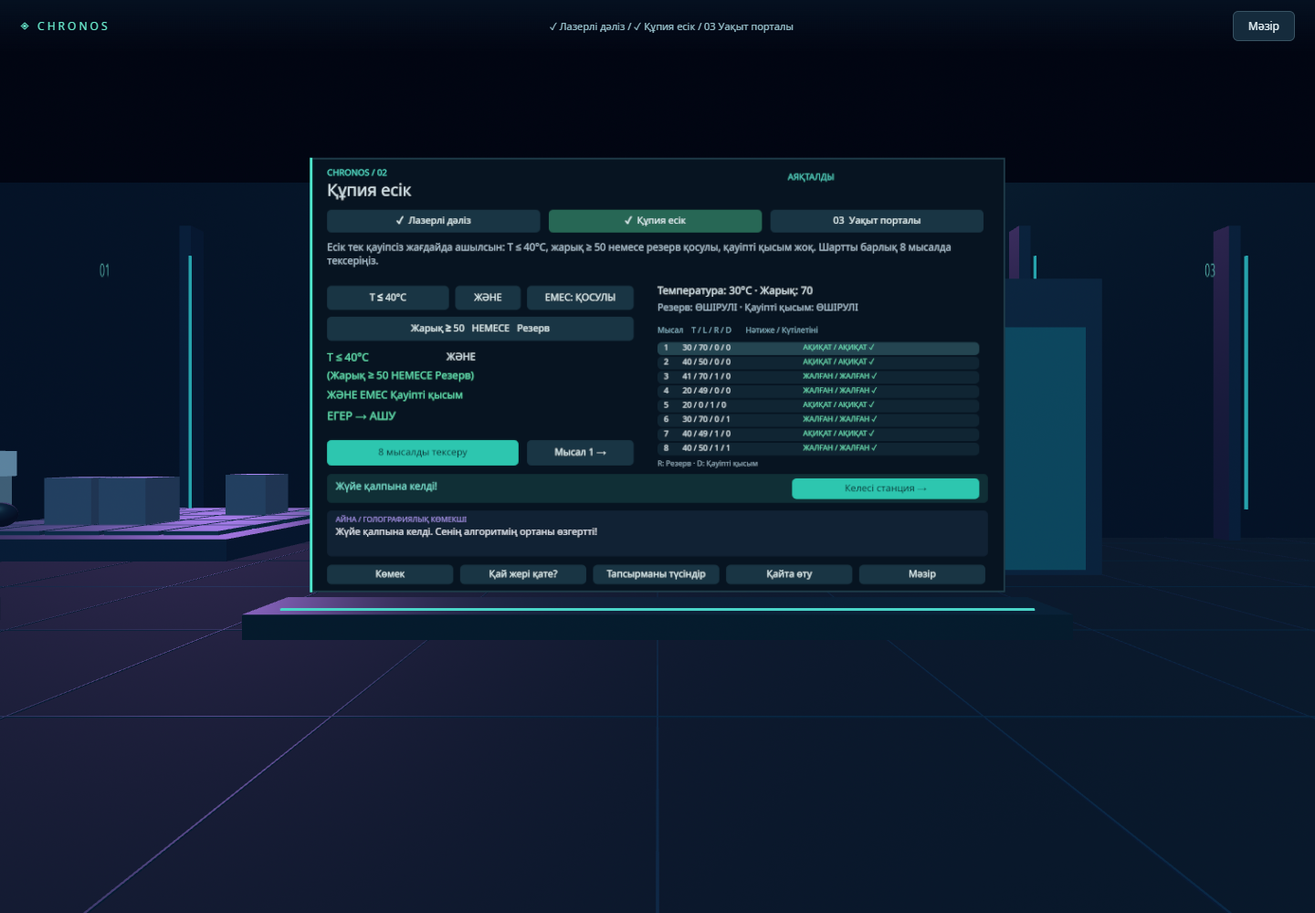
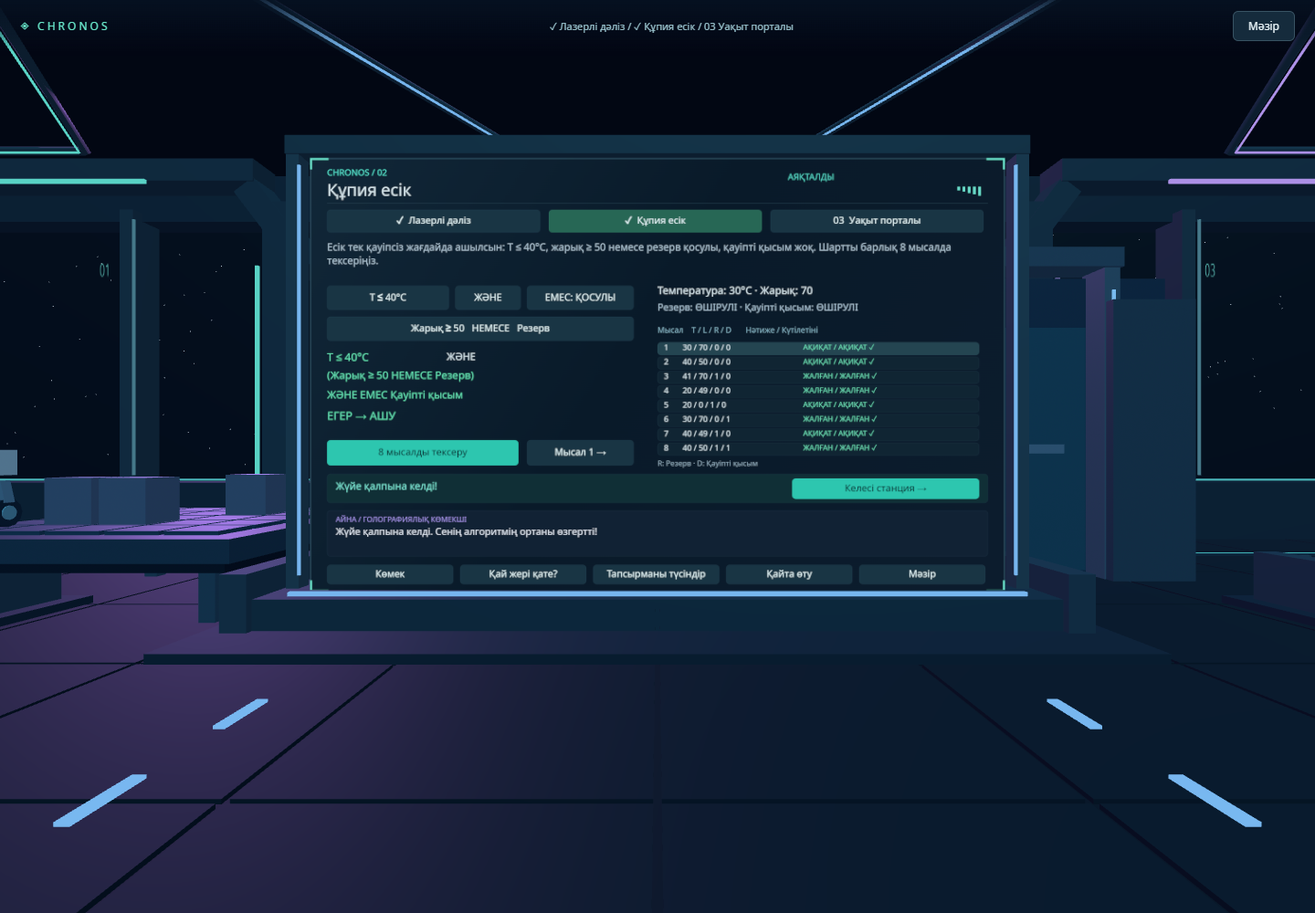
Refine laboratory architecture, exhibits and portal visuals

diff --git a/js/scene.js b/js/scene.js
@@ -1,15 +1,11 @@
+import {buildEnvironment,portalTexture} from './lab-environment.js';
 export function entity(tag,attributes,parent){const el=document.createElement(tag);for(const [key,value] of Object.entries(attributes))el.setAttribute(key,value);parent.append(el);return el;}
 export const stationX=n=>n*10;
 export class Laboratory {
   constructor(scene,dispatch,config){this.scene=scene;this.config=config;this.dispatch=dispatch;this.build();}
   build(){
     const s=this.scene;
-    entity('a-plane',{rotation:'-90 0 0',position:'10 -0.02 -2',width:38,height:22,color:'#0c1a2b',material:'roughness: 0.85; metalness: 0.2'},s);
-    entity('a-box',{position:'10 4 -9',width:38,height:8,depth:.3,color:'#101d32'},s);
-    entity('a-plane',{position:'10 7 -2',rotation:'90 0 0',width:38,height:16,color:'#081323'},s);
-    for(let x=-8;x<=28;x+=2){entity('a-box',{position:`${x} 0.002 -2`,width:.012,height:.008,depth:18,color:'#18354a'},s);}
-    for(let z=-10;z<=8;z+=2){entity('a-box',{position:`10 0.003 ${z}`,width:38,height:.008,depth:.012,color:'#18354a'},s);}
-    for(let x=-7;x<=27;x+=4){entity('a-box',{position:`${x} 3 -8.6`,width:.22,height:6,depth:.35,color:'#1c304b'},s);entity('a-box',{position:`${x+.15} 3 -8.35`,width:.035,height:4.8,depth:.04,color:'#28aab3',material:'shader: flat'},s);}
+    buildEnvironment(s);
     for(let n=0;n<3;n++){
       const x=stationX(n);
       entity('a-cylinder',{position:`${x} .035 4`,radius:1,height:.05,color:'#193a4a',segments:32},s);
@@ -21,36 +17,79 @@ export class Laboratory {
       entity('a-box',{position:`${x} .24 -1.8`,width:6.7,height:.02,depth:.025,color:'#4bd7ca',material:'shader: flat'},s);
     }
     this.laserWorld=entity('a-entity',{position:'4.5 .75 -3.5'},s);
-    entity('a-box',{width:3.2,height:.2,depth:3.2,color:'#1b2d46'},this.laserWorld);
+    entity('a-box',{width:3.35,height:.22,depth:3.35,color:'#243c50'},this.laserWorld);
+    entity('a-box',{position:'0 -.15 0',width:3.1,height:.13,depth:3.1,color:'#0d1b2b'},this.laserWorld);
+    for(const x of [-1.2,1.2])for(const z of [-1.2,1.2])entity('a-box',{position:`${x} -.44 ${z}`,width:.16,height:.65,depth:.16,color:'#304b5e'},this.laserWorld);
+    for(const z of [-1.62,1.62])entity('a-box',{position:`0 .04 ${z}`,width:3.15,height:.035,depth:.025,color:'#60dcca',material:'shader: flat'},this.laserWorld);
     this.beams=[];
     for(let y=0;y<5;y++)for(let x=0;x<5;x++){
       entity('a-box',{position:`${(x-2)*.56} .13 ${(y-2)*.56}`,width:.51,height:.04,depth:.51,color:x===4&&y===0?'#237f6c':'#25435a'},this.laserWorld);
     }
     this.config.laser.obstacles.forEach(([x,y])=>entity('a-box',{position:`${(x-2)*.56} .38 ${(y-2)*.56}`,width:.48,height:.5,depth:.48,color:'#53627c'},this.laserWorld));
-    this.config.laser.lasers.forEach(([x,y])=>this.beams.push(entity('a-cylinder',{position:`${(x-2)*.56} .5 ${(y-2)*.56}`,radius:.035,height:.75,color:'#ff4266',material:'shader: flat'},this.laserWorld)));
+    this.config.laser.lasers.forEach(([x,y])=>{
+      entity('a-cylinder',{position:`${(x-2)*.56} .2 ${(y-2)*.56}`,radius:.11,height:.1,color:'#61384b','segments-radial':12},this.laserWorld);
+      this.beams.push(entity('a-cylinder',{position:`${(x-2)*.56} .58 ${(y-2)*.56}`,radius:.025,height:.72,color:'#ff4266',material:'shader: flat'},this.laserWorld));
+    });
     this.robot=this.makeRobot(this.laserWorld);this.moveRobot({x:0,y:4,dir:0},false);
-    entity('a-box',{position:'14.5 2 -5',width:3,height:4,depth:.4,color:'#20364e'},s);
-    this.door=entity('a-box',{position:'14.5 1.7 -4.7',width:2.3,height:3.2,depth:.2,color:'#246c79'},s);
-    entity('a-box',{position:'0 0 0',width:.07,height:2.8,depth:.23,color:'#59e9d4',material:'shader: flat'},this.door);
+    entity('a-box',{position:'14.5 2 -5',width:4.7,height:4,depth:.4,color:'#20364e'},s);
+    for(const x of [13.12,15.88]){
+      entity('a-box',{position:`${x} 2 -4.65`,width:.2,height:4.25,depth:.45,color:'#496173'},s);
+      entity('a-box',{position:`${x} 2.1 -4.4`,width:.035,height:3.3,depth:.025,color:'#7bbff3',material:'shader: flat'},s);
+    }
+    entity('a-box',{position:'14.5 4.17 -4.65',width:3,height:.25,depth:.55,color:'#3a5266'},s);
+    this.door=entity('a-entity',{position:'14.5 1.7 -4.7'},s);this.doorLeaves=[];
+    for(const side of [-1,1]){
+      const leaf=entity('a-box',{position:`${side*.575} 0 0`,width:1.14,height:3.2,depth:.2,color:'#2c596f',material:'metalness: .25; roughness: .5'},this.door);this.doorLeaves.push(leaf);
+      entity('a-box',{position:`${-side*.52} 0 -.01`,width:.025,height:2.8,depth:.24,color:'#7cdfe3',material:'shader: flat'},leaf);
+      entity('a-box',{position:'0 0 .12',width:.52,height:.12,depth:.06,color:'#61788d'},leaf);
+      entity('a-box',{position:`${14.5+side*1.82} 1.8 -4.43`,width:1.05,height:3.6,depth:.28,color:'#304658'},s);
+    }
     this.portalRoot=entity('a-entity',{position:'24.5 2.6 -4'},s);
-    entity('a-cylinder',{position:'0 -2.4 0',radius:2,height:.3,color:'#26304e'},this.portalRoot);
-    entity('a-torus',{radius:2,'radius-tubular':.16,color:'#41416d','segments-radial':12,'segments-tubular':64},this.portalRoot);
+    entity('a-cylinder',{position:'0 -2.4 0',radius:2.2,height:.3,color:'#293d53','segments-radial':48},this.portalRoot);
+    entity('a-cylinder',{position:'0 -2.21 0',radius:1.9,height:.08,color:'#17283c','segments-radial':48},this.portalRoot);
+    entity('a-torus',{position:'0 -2.2 0',rotation:'90 0 0',radius:2,'radius-tubular':.025,color:'#84e9dc',material:'shader: flat','segments-radial':4,'segments-tubular':48},this.portalRoot);
+    entity('a-torus',{radius:2,'radius-tubular':.18,color:'#435872','segments-radial':8,'segments-tubular':64},this.portalRoot);
+    entity('a-torus',{radius:2.12,'radius-tubular':.045,color:'#233c50','segments-radial':4,'segments-tubular':64},this.portalRoot);
+    const T=AFRAME.THREE,clamps=new T.InstancedMesh(new T.BoxGeometry(.2,.36,.42),new T.MeshStandardMaterial({color:'#68778f',metalness:.3,roughness:.45}),12),dummy=new T.Object3D();
+    for(let j=0;j<12;j++){const angle=j*Math.PI/6;dummy.position.set(Math.cos(angle)*2.04,Math.sin(angle)*2.04,.06);dummy.rotation.z=angle-Math.PI/2;dummy.updateMatrix();clamps.setMatrixAt(j,dummy.matrix);}
+    this.portalRoot.setObject3D('clamps',clamps);
     this.portalRings=[];
     for(let n=0;n<3;n++)this.portalRings.push(entity('a-torus',{radius:1.7+n*.1,'radius-tubular':.025,color:n%2?'#a57eff':'#4ce4d3',material:'shader: flat',rotation:`0 0 ${n*30}`},this.portalRoot));
-    this.portalSurface=entity('a-circle',{radius:1.67,color:'#442978',material:'shader: flat; transparent: true; opacity: 0.12; side: double'},this.portalRoot);
+    this.portalSurface=entity('a-circle',{radius:1.67,color:'#6b6b9a',material:'shader: flat; transparent: true; opacity: 0.12; side: double',animation__vortex:'property: rotation; to: 0 0 360; dur: 90000; loop: true; easing: linear'},this.portalRoot);
+    const vortex=portalTexture();vortex.id='portal-vortex-texture';vortex.hidden=true;document.body.append(vortex);
+    this.portalSurface.setAttribute('material','src','#portal-vortex-texture');
     this.hologram=entity('a-entity',{position:'-4.6 .3 -2.6',animation:'property: position; to: -4.6 .42 -2.6; dir: alternate; dur: 2400; loop: true; easing: easeInOutSine'},s);
-    entity('a-cylinder',{radius:.65,height:.15,color:'#21324c'},this.hologram);
-    entity('a-cone',{position:'0 1.1 0',radiusBottom:.65,radiusTop:.3,height:1.9,color:'#3be8e1',material:'shader: flat; transparent: true; opacity: .10; depthWrite: false'},this.hologram);
+    entity('a-cylinder',{radius:.72,height:.2,color:'#2b4358','segments-radial':32},this.hologram);
+    entity('a-torus',{position:'0 .12 0',rotation:'90 0 0',radius:.58,'radius-tubular':.025,color:'#63f5d9',material:'shader: flat','segments-radial':4},this.hologram);
+    entity('a-cone',{position:'0 .7 0','radius-bottom':.47,'radius-top':.16,height:1.1,color:'#3be8e1',material:'shader: flat; transparent: true; opacity: .045; depthWrite: false'},this.hologram);
     entity('a-sphere',{position:'0 2.1 0',radius:.27,color:'#63f5e9',material:'shader: flat; transparent: true; opacity: .7'},this.hologram);
-    entity('a-cone',{position:'0 1.45 0',radiusBottom:.5,radiusTop:.23,height:.8,color:'#4ad6e2',material:'shader: flat; transparent: true; opacity: .35'},this.hologram);
+    entity('a-cone',{position:'0 1.45 0','radius-bottom':.25,'radius-top':.4,height:.8,color:'#4ad6e2',material:'shader: flat; transparent: true; opacity: .35'},this.hologram);
+    for(const side of [-1,1])entity('a-box',{position:`${side*.38} 1.47 0`,rotation:`0 0 ${side*18}`,width:.13,height:.61,depth:.17,color:'#5ee9e1',material:'shader: flat; transparent: true; opacity: .38'},this.hologram);
     for(let i=0;i<6;i++)entity('a-torus',{position:`0 ${.9+i*.22} 0`,rotation:'90 0 0',radius:.42,'radius-tubular':.009,color:'#52eada',material:'shader: flat'},this.hologram);
     this.portalRobot=this.makeRobot(s);this.portalRobot.setAttribute('visible',false);
   }
   label(parent,text,w,h,color){const canvas=document.createElement('canvas');canvas.width=512;canvas.height=128;const c=canvas.getContext('2d');c.font='80px LabSans';c.fillStyle=color;c.textAlign='center';c.fillText(text,256,100);const tex=new AFRAME.THREE.CanvasTexture(canvas);tex.colorSpace=AFRAME.THREE.SRGBColorSpace;const mesh=new AFRAME.THREE.Mesh(new AFRAME.THREE.PlaneGeometry(w,h),new AFRAME.THREE.MeshBasicMaterial({map:tex,transparent:true}));const el=entity('a-entity',{},parent);el.setObject3D('mesh',mesh);}
-  makeRobot(parent){const robot=entity('a-entity',{},parent);entity('a-box',{position:'0 .34 0',width:.32,height:.35,depth:.29,color:'#b8cbd4',material:'metalness: .35; roughness: .4'},robot);entity('a-box',{position:'0 .62 0',width:.39,height:.25,depth:.32,color:'#d6e5e9'},robot);entity('a-box',{position:'0 .63 -.169',width:.29,height:.11,depth:.025,color:'#102c42'},robot);for(const x of [-.08,.08])entity('a-sphere',{position:`${x} .64 -.19`,radius:.029,color:'#5affe1',material:'shader: flat'},robot);for(const x of [-.2,.2])entity('a-sphere',{position:`${x} .12 0`,radius:.12,color:'#1b263d'},robot);entity('a-cylinder',{position:'0 .83 0',radius:.017,height:.16,color:'#66f8d8'},robot);return robot;}
+  makeRobot(parent){
+    const robot=entity('a-entity',{},parent);
+    entity('a-box',{position:'0 .29 0',width:.31,height:.3,depth:.27,color:'#b3c9d5',material:'metalness: .25; roughness: .4'},robot);
+    entity('a-box',{position:'0 .31 -.145',width:.21,height:.15,depth:.025,color:'#23384b'},robot);
+    entity('a-sphere',{position:'0 .32 -.165',radius:.045,color:'#75f6d6',material:'shader: flat','segments-width':12,'segments-height':8},robot);
+    entity('a-box',{position:'0 .49 0',width:.12,height:.1,depth:.12,color:'#536e83'},robot);
+    entity('a-box',{position:'0 .63 0',width:.4,height:.25,depth:.32,color:'#d1dfe5',material:'metalness: .2; roughness: .4'},robot);
+    entity('a-box',{position:'0 .64 -.169',width:.32,height:.12,depth:.025,color:'#0b2235'},robot);
+    for(const x of [-.085,.085])entity('a-box',{position:`${x} .65 -.188`,width:.045,height:.055,depth:.012,color:'#72ffe0',material:'shader: flat'},robot);
+    for(const side of [-1,1]){
+      entity('a-cylinder',{position:`${side*.21} .14 0`,rotation:'0 0 90',radius:.14,height:.12,color:'#182b3e','segments-radial':12},robot);
+      entity('a-cylinder',{position:`${side*.277} .14 0`,rotation:'0 0 90',radius:.07,height:.016,color:'#6a9bab','segments-radial':12},robot);
+      entity('a-box',{position:`${side*.22} .34 0`,rotation:`0 0 ${side*12}`,width:.085,height:.22,depth:.1,color:'#657f94'},robot);
+    }
+    entity('a-cylinder',{position:'0 .83 0',radius:.012,height:.15,color:'#69889b'},robot);
+    entity('a-sphere',{position:'0 .91 0',radius:.027,color:'#75f6d6',material:'shader: flat','segments-width':8,'segments-height':6},robot);
+    return robot;
+  }
   moveRobot(state,animate=true){const pos=`${(state.x-2)*.56} .16 ${(state.y-2)*.56}`;if(animate)this.robot.setAttribute('animation__move',`property: position; to: ${pos}; dur: 380; easing: easeInOutSine`);else{this.robot.removeAttribute('animation__move');this.robot.setAttribute('position',pos);}this.robot.setAttribute('rotation',`0 ${-state.dir*90} 0`);this.beams.forEach(b=>b.setAttribute('visible',state.tick%2===1));}
-  openDoor(open){this.door.setAttribute('animation__open',`property: position; to: 14.5 ${open?5:1.7} -4.7; dur: 1500; easing: easeInOutCubic`);}
-  powerPortal(level){if(level===0){this.portalSurface.removeAttribute('animation__finale');this.portalSurface.setAttribute('material','color','#442978');}this.portalSurface.setAttribute('material','opacity',.12+level*.7);this.portalRings.forEach((r,i)=>{r.setAttribute('visible',i<Math.ceil(level*3)||level===0);if(level>0)r.setAttribute('animation',`property: rotation; to: 0 0 ${360+i*30}; dur: ${16000-i*3000}; loop: true; easing: linear`);else r.removeAttribute('animation');});}
+  openDoor(open){this.doorLeaves.forEach((leaf,index)=>leaf.setAttribute('animation__open',`property: position; to: ${(index===0?-1:1)*(open?1.72:.575)} 0 0; dur: 1500; easing: easeInOutCubic`));}
+  powerPortal(level){if(level===0){this.portalSurface.removeAttribute('animation__finale');this.portalSurface.setAttribute('material','color','#6b6b9a');}else this.portalSurface.setAttribute('material','color','#bbdcff');this.portalSurface.setAttribute('material','opacity',.12+level*.7);this.portalRings.forEach((r,i)=>{r.setAttribute('visible',i<Math.ceil(level*3)||level===0);if(level>0)r.setAttribute('animation',`property: rotation; to: 0 0 ${360+i*30}; dur: ${16000-i*3000}; loop: true; easing: linear`);else r.removeAttribute('animation');});}
   portalMove(node){const [x,y]=this.config.portal.nodes[node];this.portalRobot.setAttribute('visible',true);this.portalRobot.setAttribute('animation__move',`property: position; to: ${22.1+x*.6} .4 ${-4-y*.6}; dur: 550; easing: easeInOutSine`);}
   finale(){this.portalSurface.setAttribute('animation__finale','property: material.color; to: #57dcca; dur: 2500; easing: easeInOutSine');}
 }

diff --git a/js/lab-environment.js b/js/lab-environment.js
@@ -1,0 +1,89 @@
+// Repeated architectural parts share instanced meshes to keep the room light in VR.
+export function buildEnvironment(scene) {
+  const T=AFRAME.THREE,root=new T.Group(),batches=new Map();
+  const box=(position,scale,color,glow=false,rotation=0)=>{
+    const key=color+':'+glow;
+    if(!batches.has(key))batches.set(key,{color,glow,items:[]});
+    batches.get(key).items.push({position,scale,rotation});
+  };
+  box([10,-.17,-1],[38,.3,23],'#101d2b');
+  // Inlaid floor panels and continuous guide rails.
+  for(let x=-7;x<=27;x+=2)for(let z=-8;z<=8;z+=2){
+    box([x,.001,z],[1.96,.025,1.96],(x+z)%4===0?'#172838':'#122130');
+  }
+  for(const z of [-6.5,5.8]){
+    box([10,.025,z],[35,.04,.17],'#273e50');
+    box([10,.048,z],[35,.012,.035],'#42b8ba',true);
+    for(let x=-6;x<28;x+=2)box([x,.035,z+.25],[.5,.025,.06],'#3a5364');
+  }
+  // The observation wall has deep reveals instead of a flat solid backdrop.
+  box([10,3.6,-9.25],[38,7.5,.3],'#090f22');
+  box([10,.55,-8.85],[38,1.1,.7],'#233446');
+  box([10,6.65,-8.85],[38,1.1,.7],'#233446');
+  box([10,1.16,-8.43],[36,.035,.06],'#4dbfc3',true);
+  for(let x=-8;x<=28;x+=4){
+    box([x,3.65,-8.6],[.25,5.2,.65],'#304656');
+    box([x+.17,3.65,-8.24],[.035,4.8,.04],'#487d8e',true);
+  }
+  // Ceiling cassettes, structural ribs, and three distinct station bays.
+  box([10,7.1,-1],[38,.25,22],'#0d1928');
+  for(let n=0;n<3;n++){
+    const x=n*10,accent=['#5bd8ca','#78b8f1','#b194ec'][n];
+    for(const side of [-1,1]){
+      box([x+side*4.45,2.65,-5.7],[.36,5.3,.5],'#2c4253');
+      box([x+side*4.45,4.95,-5.7],[.35,1.5,.5],'#2c4253',false,side*.65);
+      box([x+side*4.23,2.6,-5.4],[.045,3.5,.045],accent,true);
+      box([x+side*3.6,.3,-2.2],[.23,.6,1.35],'#304759');
+      // Subtle floor markings lead toward the console.
+      for(let z=0;z<=2;z++)box([x+side*2.55,.025,z],[.07,.02,.42],accent,true);
+      box([x+side*3.4,2.4,-2.16],[.12,4.28,.18],'#3a5362');
+      box([x+side*3.32,2.4,-2.04],[.025,3.8,.02],accent,true);
+    }
+    box([x,5.75,-5.7],[8.3,.32,.55],'#2c4253');
+    box([x,5.55,-5.36],[5.3,.055,.045],accent,true);
+    box([x,4.5,-2.17],[6.92,.17,.24],'#304958');
+    box([x,.23,-2.15],[7.05,.28,1.1],'#263f50');
+    box([x,.39,-1.75],[6.5,.035,.055],accent,true);
+    box([x,.06,-2],[7.8,.08,2.1],'#1c2e40');
+    // Luminaire above each workstation: one six-sided frame, no extra lights.
+    const ring=new T.Mesh(new T.TorusGeometry(3.9,.065,4,6),new T.MeshStandardMaterial({color:'#334b5b',roughness:.55,metalness:.25}));
+    ring.rotation.x=Math.PI/2;ring.position.set(x,5.9,-1.8);root.add(ring);
+    const lightRing=new T.Mesh(new T.TorusGeometry(3.83,.018,4,6),new T.MeshBasicMaterial({color:accent}));
+    lightRing.rotation.x=Math.PI/2;lightRing.position.set(x,5.85,-1.8);root.add(lightRing);
+    // Equipment racks sit behind the active exhibits.
+    for(let j=0;j<2;j++){
+      const rx=x-3.5+j*.65;
+      box([rx,1.8,-7.7],[.54,2.6,.55],'#25384b');
+      for(let k=0;k<5;k++){
+        box([rx,1+k*.38,-7.4],[.38,.22,.025],'#101e2b');
+        box([rx-.12,1.06+k*.38,-7.38],[.04,.025,.01],accent,true);
+      }
+    }
+  }
+  for(const x of [-8.8,28.8])box([x,3.5,-1],[.3,7,22],'#17283b');
+  const geometry=new T.BoxGeometry(1,1,1),dummy=new T.Object3D();
+  for(const batch of batches.values()){
+    const material=batch.glow?new T.MeshBasicMaterial({color:batch.color}):new T.MeshStandardMaterial({color:batch.color,roughness:.68,metalness:.16});
+    const mesh=new T.InstancedMesh(geometry,material,batch.items.length);
+    batch.items.forEach((item,index)=>{dummy.position.set(...item.position);dummy.scale.set(...item.scale);dummy.rotation.set(0,0,item.rotation);dummy.updateMatrix();mesh.setMatrixAt(index,dummy.matrix);});
+    mesh.instanceMatrix.needsUpdate=true;mesh.computeBoundingSphere();root.add(mesh);
+  }
+  // Seeded stars are one draw call, visible through the observation wall bays.
+  const positions=[],colors=[];let seed=42;
+  const random=()=>{seed=(seed*1664525+1013904223)>>>0;return seed/4294967296;};
+  for(let i=0;i<240;i++){positions.push(-8+random()*36,1.35+random()*4.7,-8.98);const b=.35+random()*.5;colors.push(b*.75,b*.88,b);}
+  const stars=new T.BufferGeometry();stars.setAttribute('position',new T.Float32BufferAttribute(positions,3));stars.setAttribute('color',new T.Float32BufferAttribute(colors,3));
+  root.add(new T.Points(stars,new T.PointsMaterial({size:.025,vertexColors:true,sizeAttenuation:true})));
+  const host=document.createElement('a-entity');host.id='laboratory-architecture';scene.append(host);host.setObject3D('mesh',root);
+}
+
+export function portalTexture(){
+  const canvas=document.createElement('canvas');canvas.width=canvas.height=512;const c=canvas.getContext('2d');
+  const gradient=c.createRadialGradient(256,256,8,256,256,256);
+  gradient.addColorStop(0,'#e1fff5');gradient.addColorStop(.12,'#7499c9');gradient.addColorStop(.4,'#39347c');gradient.addColorStop(.77,'#4461b3');gradient.addColorStop(1,'#8cfff0');
+  c.fillStyle=gradient;c.fillRect(0,0,512,512);c.translate(256,256);
+  for(let j=0;j<18;j++){
+    c.rotate(Math.PI*2/18);c.beginPath();c.moveTo(15,0);c.bezierCurveTo(75,-135,230,-140,253,0);c.strokeStyle=j%3===0?'#b1fff85e':'#ad9fff30';c.lineWidth=j%3===0?2:5;c.stroke();
+  }
+  return canvas;
+}

diff --git a/js/world-ui.js b/js/world-ui.js
@@ -8,9 +8,17 @@ export class WorldUI {
     this.root.setObject3D('mesh',mesh);this.buttons=[];
   }
   position(x){this.root.setAttribute('position',`${x} 2.35 -2`);}
-  begin(){this.buttons.forEach(b=>b.remove());this.buttons=[];const c=this.ctx;c.clearRect(0,0,W,H);c.fillStyle='#071421';c.fillRect(0,0,W,H);c.strokeStyle='#244653';c.lineWidth=3;c.strokeRect(2,2,W-4,H-4);c.fillStyle='#50ead0';c.fillRect(0,0,6,H);}
+  begin(){
+    this.buttons.forEach(b=>b.remove());this.buttons=[];const c=this.ctx;c.clearRect(0,0,W,H);
+    const gradient=c.createLinearGradient(0,0,W,H);gradient.addColorStop(0,'#112738');gradient.addColorStop(.45,'#091a29');gradient.addColorStop(1,'#0c1c2d');c.fillStyle=gradient;c.fillRect(0,0,W,H);
+    c.strokeStyle='#305366';c.lineWidth=2;c.strokeRect(2,2,W-4,H-4);
+    c.strokeStyle='#6de8d1';c.lineWidth=4;
+    for(const [x,y,dx,dy] of [[3,3,1,1],[W-3,3,-1,1],[3,H-3,1,-1],[W-3,H-3,-1,-1]]){c.beginPath();c.moveTo(x,y+dy*24);c.lineTo(x,y);c.lineTo(x+dx*40,y);c.stroke();}
+    c.fillStyle='#69dccb';for(let j=0;j<5;j++)c.fillRect(1490+j*12,67,6,8+j*3);
+    this.line(40,105,1560,105,'#294655',1);
+  }
   text(text,x,y,size=24,color='#d8e8ee',maxWidth=1500){const c=this.ctx;c.font=`${size>=30?'600':'400'} ${size}px LabSans, sans-serif`;c.fillStyle=color;c.textAlign='left';c.textBaseline='top';let line='',yy=y;for(const word of String(text).split(' ')){if(c.measureText(line+word).width>maxWidth&&line){c.fillText(line.trim(),x,yy);yy+=size*1.34;line='';}line+=word+' ';}c.fillText(line.trim(),x,yy);return yy+size*1.34;}
-  rect(x,y,w,h,color='#102936'){const c=this.ctx;c.fillStyle=color;c.beginPath();c.roundRect(x,y,w,h,10);c.fill();}
+  rect(x,y,w,h,color='#102936'){const c=this.ctx;c.fillStyle=color;c.beginPath();c.roundRect(x,y,w,h,8);c.fill();c.strokeStyle='#72b2cc18';c.lineWidth=1;c.stroke();}
   line(x1,y1,x2,y2,color='#426473',width=3){const c=this.ctx;c.strokeStyle=color;c.lineWidth=width;c.beginPath();c.moveTo(x1,y1);c.lineTo(x2,y2);c.stroke();}
   button(label,x,y,w,h,action,{disabled=false,active=false,accent=false}={}){
     this.rect(x,y,w,h,disabled?'#12202b':active?'#276856':accent?'#2dc8b1':'#193544');

diff --git a/docs/azirleu-kundeligi.md b/docs/azirleu-kundeligi.md
@@ -21,3 +21,5 @@
 Жоба файлдары мен GitHub Actions жариялау workflow-ы дайындалды. Қашықтағы GitHub репозиторийіне жүктеу орындалмады. Физикалық Meta Quest тексеруі әлі қажет.
 
 Жариялау кезеңі: пайдаланушы GitHub CLI арқылы рұқсат берді. Жоба `kazievbeking/vr_algoritm` репозиторийінің `main` тармағына жүктелді. GitHub Pages үшін GitHub Actions жариялауы қосылды. Ойын URL: https://kazievbeking.github.io/vr_algoritm/ . Физикалық Meta Quest тексеруі пайдаланушының құрылғысында жүргізіледі.
+
+Интерьерді жаңарту: еден кассеталары, жарық жолақтары, алты қырлы төбе жақтаулары, жұлдызды бақылау терезелері, консоль жиектері және жабдық сөрелері қосылды. Үш станцияның түстері ажыратылды. Қайталанатын архитектура InstancedMesh арқылы топталды. Робот дөңгелектері мен денесі нақтыланды; есік екі жаққа сырғитын болды; портал механикалық бекітпелер мен баяу айналатын canvas вихрін алды. Қазақша панельдер мен басқару орындары сақталды.

diff --git a/docs/testileu.md b/docs/testileu.md
@@ -39,3 +39,7 @@
 - Құрылғыдағы кадр жиілігі, дыбыс және ұзақ сессия тұрақтылығы.
 
 Физикалық Quest қабылдауына дейін осы тармақтарды құрылғыда орындау қажет. Headless браузер не эмуляция мұның орнына жүрмейді. Оқушылармен педагогикалық зерттеу жүргізілген жоқ.
+
+## Интерьер жаңартуын тексеру
+
+Жаңартылған бөлмеде 7/7 логика тесті және браузердегі толық өту сценарийі қайта орындалды. Үш сынақ, сырғымалы есік, портал, сақтау және финал жұмыс істейді; JavaScript қатесі жоқ. Алғашқы станцияның браузердегі бір көрінісінде 133 draw call, 22 536 үшбұрыш және 5 текстура тіркелді. Бұл — бір компьютерлік кадрдың техникалық есебі, Quest өнімділігіне берілген кепілдік емес. Жаңартылған жалпы көрініс: [зертхана](screenshots/lab-overview.png).

diff --git a/docs/tehnologiyalar.md b/docs/tehnologiyalar.md
@@ -10,4 +10,6 @@ A-Frame жергілікті көшірмесі мен MIT лицензиясы 
 
 Тек салыстырмалы ресурс жолдары қолданылады. API кілттері, дерекқор, серверлік есептеу немесе тілдік модель жоқ.
 
+`lab-environment.js` архитектураны материалдар бойынша InstancedMesh топтарына біріктіреді. Жұлдыздар бір Points нысанымен салынады. Портал бейнесі canvas арқылы бір рет жасалады, A-Frame материалындағы `src` арқылы бекітіледі, сондықтан түс пен қуат өзгергенде сақталады. Қосымша динамикалық жарық, көлеңке немесе постөңдеу қосылған жоқ.
+
 Таңдалған нұсқа құжаттары: [laser-controls](https://aframe.io/docs/1.7.0/components/laser-controls.html), [cursor](https://aframe.io/docs/1.7.0/components/cursor.html).
